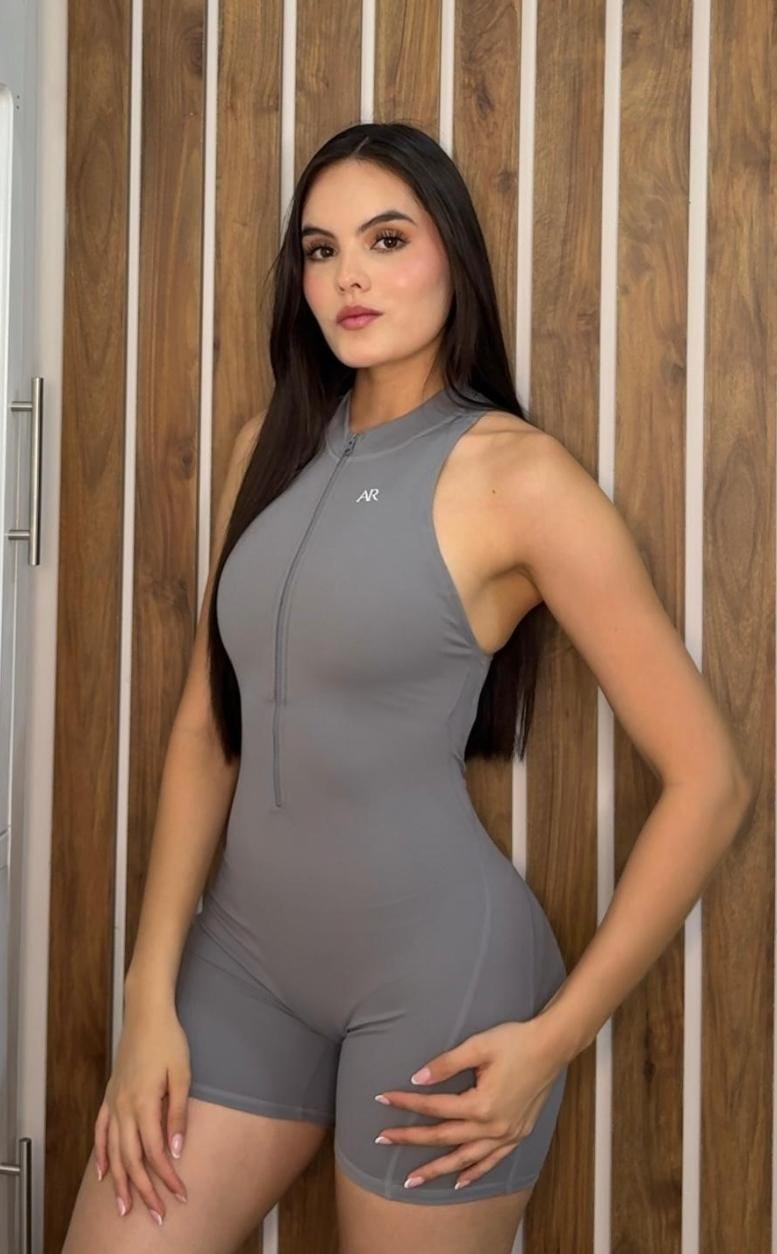
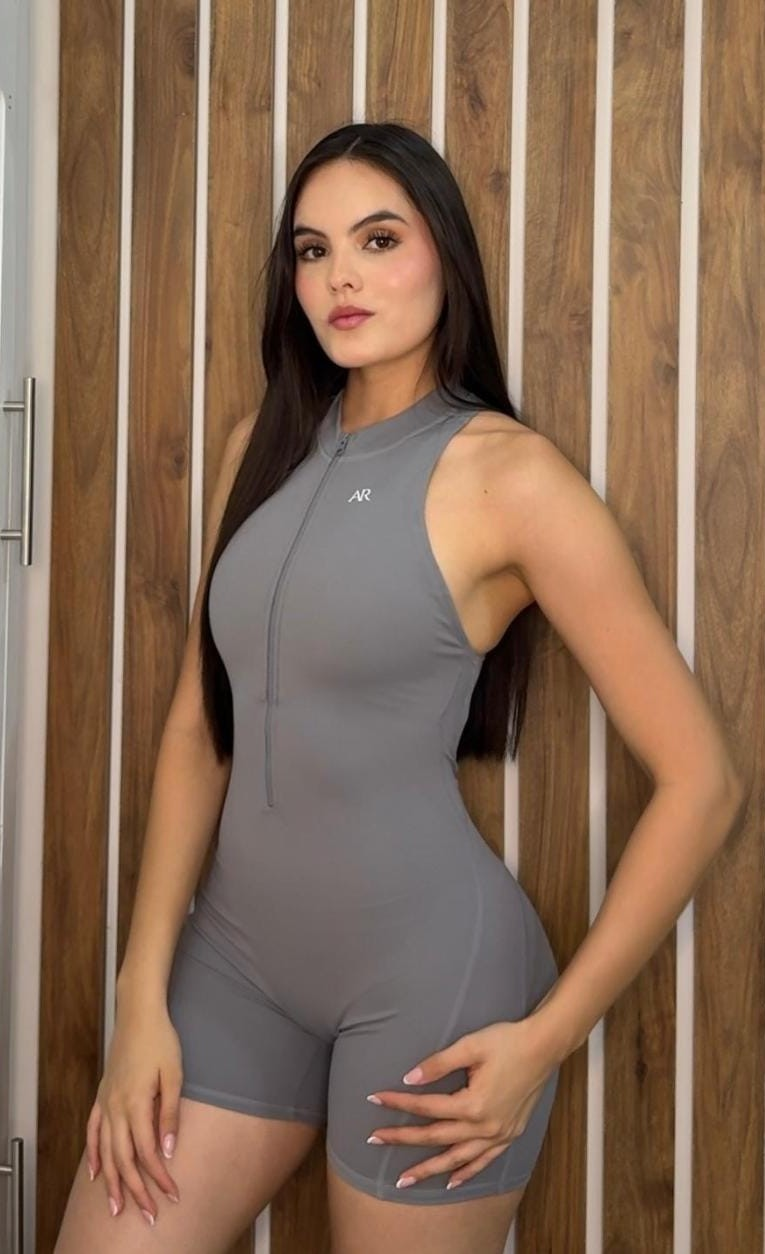
agregamos producto de enterizo flex

diff --git a/src/Components/Assets/all_product.js b/src/Components/Assets/all_product.js
@@ -19,10 +19,10 @@ import enterizovanilla2 from "./enterizos/enterizovainilla2.jpeg";
 import enterizovanilla3 from "./enterizos/enterizovainilla3.jpeg";
 import enterizovanilla4 from "./enterizos/enterizovainilla4.jpeg";
 // 105
-import enterizoflexgris1 from "./enterizos/enterizoflexgris1.jpg";
-import enterizoflexgris2 from "./enterizos/enterizoflexgris2.jpg";
-import enterizoflexgris3 from "./enterizos/enterizoflexgris3.jpg";
-import enterizoflexgris4 from "./enterizos/enterizoflexgris4.jpg";
+import enterizoflexgris1 from "./enterizos/enterizoflexgris1.jpeg";
+import enterizoflexgris2 from "./enterizos/enterizoflexgris2.jpeg";
+import enterizoflexgris3 from "./enterizos/enterizoflexgris3.jpeg";
+import enterizoflexgris4 from "./enterizos/enterizoflexgris4.jpeg";
 // 106
 import enterizoflexazul1 from "./enterizos/enterizoflexazul1.jpg";
 import enterizoflexazul2 from "./enterizos/enterizoflexazul2.jpg";
@@ -267,6 +267,26 @@ let all_product = [
     image2: enterizoflexblancocorto2,
     image3: enterizoflexblancocorto3,
     image4: enterizoflexblancocorto4,
+    new_price: 110000,
+    old_price: 140000,
+    offer: false,
+    sizes: {
+      XS: false,
+      S: true,
+      M: true,
+      L: false,
+      XL: false,
+    },
+  },
+    {
+    id: 105,
+    name: "ENTERIZO FLEX - TONO GRIS",
+    category: "enterizos",
+    description: "Tela suave con acabados de la mejor calidad",
+    image: enterizoflexgris1,
+    image2: enterizoflexgris2,
+    image3: enterizoflexgris3,
+    image4: enterizoflexgris4,
     new_price: 110000,
     old_price: 140000,
     offer: false,
